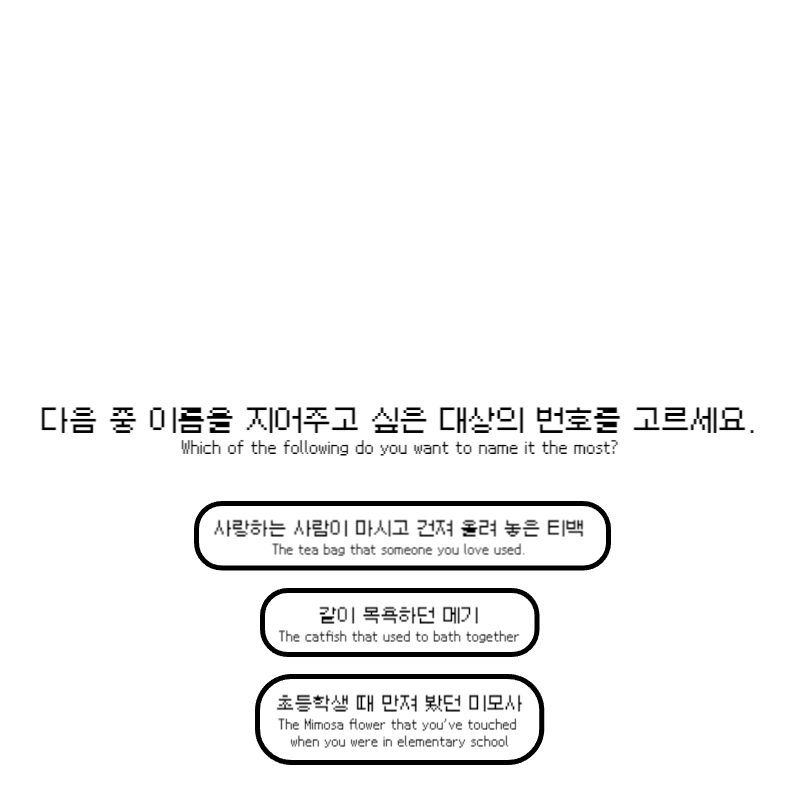
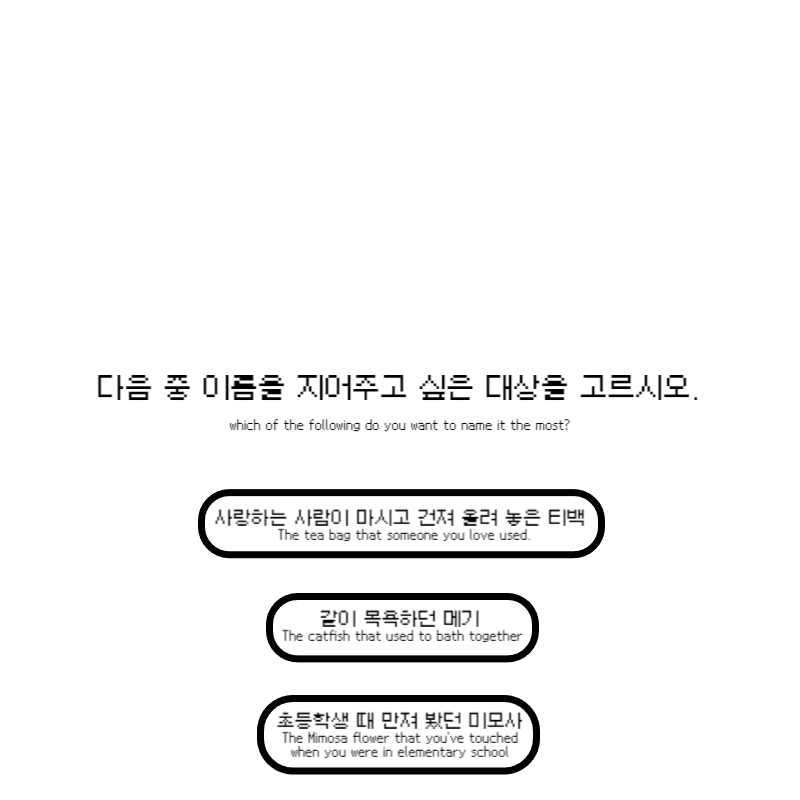
fix: 수정된 이미지로 대체

Changed region(s): [[0.0312, 0.4688, 0.9375, 0.9688]]

diff --git a/src/Result.jsx b/src/Result.jsx
@@ -540,51 +540,53 @@ export default function Result() {
   }, []);
 
   return (
-    <div className="flex flex-col">
+    <div className="flex flex-col items-center">
       <img className="h-1/2" src={resultImg} />
-      {show1 && (
-        <div className="text-center ">
-          <div className="flex justify-center flex-col">
-            <h1 className="font-bold text-xl ">{randomResult.one.kor}</h1>
-            <h2 className="align-top">{randomResult.one.eng}</h2>
+      <div className="absolute bottom-2 flex flex-col">
+        {show1 && (
+          <div className="text-center ">
+            <div className="flex justify-center flex-col">
+              <h1 className="font-bold text-xl ">{randomResult.one.kor}</h1>
+              <h2 className="align-top">{randomResult.one.eng}</h2>
+            </div>
           </div>
-        </div>
-      )}
-      {show2 && (
-        <div className="text-center">
-          <div className="flex justify-center flex-col">
-            <h1 className="font-bold text-xl ">{randomResult.two.kor}</h1>
-            <h2 className="align-top">{randomResult.two.eng}</h2>
+        )}
+        {show2 && (
+          <div className="text-center">
+            <div className="flex justify-center flex-col">
+              <h1 className="font-bold text-xl ">{randomResult.two.kor}</h1>
+              <h2 className="align-top">{randomResult.two.eng}</h2>
+            </div>
           </div>
-        </div>
-      )}
+        )}
 
-      {show3 && (
-        <div className="text-center">
-          <div className="flex justify-center flex-col">
-            <h1 className="font-bold text-xl ">{randomResult.three.kor}</h1>
-            <h2 className="">{randomResult.three.eng}</h2>
+        {show3 && (
+          <div className="text-center">
+            <div className="flex justify-center flex-col">
+              <h1 className="font-bold text-xl ">{randomResult.three.kor}</h1>
+              <h2 className="">{randomResult.three.eng}</h2>
+            </div>
           </div>
-        </div>
-      )}
+        )}
 
-      {show4 && (
-        <div className="text-center">
-          <div className="flex justify-center flex-col">
-            <h1 className="font-bold text-xl ">{randomResult.four.kor}</h1>
-            <h2 className="">{randomResult.four.eng}</h2>
+        {show4 && (
+          <div className="text-center">
+            <div className="flex justify-center flex-col">
+              <h1 className="font-bold text-xl ">{randomResult.four.kor}</h1>
+              <h2 className="">{randomResult.four.eng}</h2>
+            </div>
           </div>
-        </div>
-      )}
+        )}
 
-      {show5 && (
-        <div className="text-center">
-          <div className="flex justify-center flex-col">
-            <h1 className="font-bold text-xl ">{randomResult.five.kor}</h1>
-            <h2 className="">{randomResult.five.eng}</h2>
+        {show5 && (
+          <div className="text-center">
+            <div className="flex justify-center flex-col">
+              <h1 className="font-bold text-xl ">{randomResult.five.kor}</h1>
+              <h2 className="">{randomResult.five.eng}</h2>
+            </div>
           </div>
-        </div>
-      )}
+        )}
+      </div>
     </div>
   );
 }
